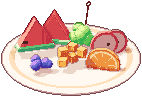
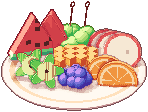
果盘挤满、前后遮挡；可颂一节一节叠成台阶
她：「果盘现在太空了，水果和水果之间没有接触，实际上可以按先后位置适当地用前一个水果遮挡后一个水果。」
「可颂是一层一层的……有点阶梯状的感觉。」附了参考图。

## 果盘

照参考的布局排满：后排西瓜（左）、葡萄（中，两根牙签）、苹果片（右，三片扇形一片压一片）；
中间芒果粒；前排杨桃（左，两片星形）、蓝莓（中，一堆）、橙子片（右，两片半圆一前一后）。
每样放大、挨着放，中心点前后错开大半个身位，前排自然盖住后排下半截。
杨桃是自写的星形棱柱 SDF（星形在本地 xz 平面、厚度沿 y，`aim` 把 y 转到朝向）。

## 可颂

前两版：一串一样大的椭球 →「像几个圆球」；一整条光滑管子加画上去的折痕 → 没有台阶。
这版九节，每节是**横着扁的一个卷**（沿弧薄、横过弧宽、高度小于宽度——竖着高的话像手指），
从中间往两头一级比一级小、比一级低，间距只有节宽一半、大的压在小的上面；每节单独一组，
节间那道深线才描得出来。弧心在前面，两头的尖朝观察者弯，斜俯视下看得出是个 C。

diff --git a/scripts/px_tabletop.py b/scripts/px_tabletop.py
@@ -509,55 +509,50 @@ def cookies(s, R, T):
         s.decal(lambda p: (speckle(p, 6, 0.18, seed=20), chip), "cookie%d" % i)
 
 
-@item("croissant", "可颂", units=4.2, ty=0.9, h=1.0)
+@item("croissant", "可颂", units=4.2, ty=0.8, h=0.9)
 def croissant(s, R, T):
-    # 可颂：**一整条**弯成月牙、中间粗两头细的面团，身上一道一道斜着的折痕。
-    # 她：「不像可颂，更像几个圆球」——拿一串椭球拼，每节都是个球。
-    # 这版是一个自己写的 SDF：沿一段弧走的管子，半径从中间往两头收，两头的尖往上翘一点；
-    # 折痕是按「在弧上走到哪儿」画的一圈圈暗线，所以线是绕着面团走的，不是贴在表面的斜条。
+    # 可颂是**一节一节叠起来的**：中间那节最大最高，往两头一节比一节小、一节比一节低，
+    # 边缘一级一级往下走（她说的「阶梯状」），节和节之间一道深线。
+    #
+    # 前两版都不对：
+    #   · 一串椭球 → 「像几个圆球」：每节是个球，而且一样大
+    #   · 一整条光滑的管子 + 画上去的折痕 → 没有台阶，轮廓是一条顺滑的弧
+    # 这版每一节是一个**横着裹在面团上的卷**（沿弧的方向薄、横过弧的方向宽），
+    # 节与节压得很紧（间距只有节宽的一半），大的压在小的上面，单独一组才描得出节间那道线。
     plate(s, color="#EEF2F6")
-    dough = M("dough", "#EDAA55", steps=7, gloss=0.4)
-    crease = M("crease", "#B86A2E", steps=4)
-    light = M("layer", "#F8D08A", steps=5)
-    RAD, SPAN = 1.55, math.radians(78)
-    C = -T * 0.95                             # 弧心在后面：中间离观察者最近，两头往后弯
-
-    def local_arc(p):
-        q = p - np.array([C[0], 0, C[2]])
-        x = q[..., 0] * R[0] + q[..., 2] * R[2]
-        z = q[..., 0] * T[0] + q[..., 2] * T[2]
-        th = np.arctan2(x, z)                 # 0 = 正对观察者
-        thc = np.clip(th, -SPAN, SPAN)
-        k = thc / SPAN
-        rr = 0.14 + 0.52 * np.cos(k * math.pi / 2) ** 0.75
-        yc = 0.66 + 0.08 * k ** 2             # 两头只翘一点点（翘高了像马蹄铁）
-        qx = np.sin(thc) * RAD
-        qz = np.cos(thc) * RAD
-        d = np.sqrt((x - qx) ** 2 + (z - qz) ** 2 + ((p[..., 1] - yc) * 1.15) ** 2) - rr
-        return d, k
-
-    from pixelkit import Shape
-    s.add(Shape(lambda p: local_arc(p)[0] * 0.8, 3.0), dough, "croissant")
-
-    def creases(p):
-        d, k = local_arc(p)
-        band = (k * 3.0 + p[..., 1] * 0.9) % 1
-        return (band < 0.08) & (np.abs(k) < 0.95), crease
-
-    def layers(p):
-        d, k = local_arc(p)
-        band = (k * 3.0 + p[..., 1] * 0.9) % 1
-        return (band > 0.13) & (band < 0.26) & (p[..., 1] > 0.8), light
-    s.decal(layers, "croissant")
-    s.decal(creases, "croissant")
+    doughs = [M("d0", "#F0B25E", steps=7, gloss=0.45), M("d1", "#E9A452", steps=7, gloss=0.45)]
+    shine_m = M("shine", "#FBD592", steps=4)
+    RAD = 1.25
+    # 弧心在前面：中间那节在后、两头的尖朝观察者弯过来，斜俯视下看得出是个「C」
+    C = T * 1.05
+    levels = [1.0, 0.82, 0.64, 0.47, 0.32]
+    order = [0, -1, 1, -2, 2, -3, 3, -4, 4]
+    for j in order:
+        lv = levels[abs(j)]
+        ang = math.radians(j * 19)
+        d = C + R * math.sin(ang) * RAD - T * math.cos(ang) * RAD
+        tang = R * math.cos(ang) + T * math.sin(ang)
+        # ⚠ 每节**横着扁**：宽 > 高。竖着高的话一节一节像手指（上一版就是）
+        a = 0.3 * lv + 0.07           # 沿弧：薄
+        b = 0.66 * lv + 0.1           # 横过弧：宽
+        c = 0.36 * lv + 0.06          # 高
+        g = "roll%d" % (j + 4)
+        s.add(along(ellipsoid(a, c, b), tang).at(d[0], 0.2 + c * 0.85, d[2]), doughs[abs(j) % 2], g)
+        s.decal((lambda p: ((p[..., 1] > 0.35 * c) & (np.abs(p[..., 2]) < 0.45 * b) & (np.abs(p[..., 0]) < 0.4 * a),
+                            shine_m)), g)
 
 
-@item("fruitbowl", "果盘", units=4.8, ty=0.75, h=0.95)
+@item("fruitbowl", "果盘", units=4.6, ty=0.8, h=0.95)
 def fruitbowl(s, R, T):
-    # 切好的水果拼盘（照她给的参考）：西瓜、葡萄、苹果片、橙子片、蓝莓、芒果粒，一样一堆摆满。
-    # 她：「不像果盘」——以前是一只碗装一个苹果一个橙子一根香蕉。
+    # 切好的水果拼盘，**挤满整个盘子**，按前后排：前面的压住后面的一截。
+    # 她：「太空了，水果和水果之间没有接触，可以按先后位置适当地用前一个水果遮挡后一个水果。」
+    # 照参考图的布局：
+    #   后排  西瓜（左）  葡萄（中）  苹果片（右）
+    #   中间  芒果粒（中）
+    #   前排  杨桃（左）  蓝莓（中）  橙子片（右）
+    # 每样都放大、挨着放，中心点前后错开大半个身位，前排自然盖住后排的下半截。
     plate(s, r=2.2, color="#FBF4EA", rim="#E7B98A")
-    melon = M("melon", "#F0605A", steps=5)
+    melon = M("melon", "#F0605A", steps=6)
     rind = M("rind", "#5FAE63", steps=4)
     rindw = M("rindw", "#EAF4D0", steps=3)
     seed_m = M("seed", "#3A2A26", steps=2)
@@ -567,54 +562,85 @@ def fruitbowl(s, R, T):
     orange = M("orange", "#F7A33A", steps=5)
     orpith = M("pith", "#FFE7B8", steps=3)
     blue = M("blue", "#4F5FB8", steps=5, gloss=0.7)
+    bluecrown = M("bluecrown", "#2F3A7A", steps=2)
     mango = M("mango", "#FFC54A", steps=5)
+    star = M("star", "#B9DB6A", steps=5)
+    starin = M("starin", "#E9F2B8", steps=3)
     pick = M("pick", "#C9A06A", steps=3)
+    from pixelkit import Shape
 
     def P(r, t, y):
         return R * r + T * t + np.array([0, y, 0])
 
-    # 西瓜：两块三角，立着，底下一条绿皮
-    for i, (r, t, yaw) in enumerate(((-1.15, -0.35, 15), (-0.55, -0.75, -10))):
-        c = P(r, t, 0.72)
-        shp = tri_prism(0.62, 0.16, round=0.05).rot("y", math.degrees(math.atan2(T[0], T[2])) + yaw).at(*c)
-        s.add(shp, melon, "melon%d" % i)
-        s.decal((lambda p: (p[..., 1] < -0.28, rind)), "melon%d" % i)
-        s.decal((lambda p: ((p[..., 1] >= -0.28) & (p[..., 1] < -0.2), rindw)), "melon%d" % i)
-        s.decal((lambda p: (speckle(p, 7, 0.08, seed=40 + i) & (p[..., 1] > -0.1) & (np.abs(p[..., 2]) > 0.12), seed_m)),
-                "melon%d" % i)
-    # 葡萄：一串绿的，插一根牙签
-    for k in range(10):
-        a = k * 2.4
-        rr = 0.18 + 0.05 * (k % 3)
-        c = P(0.35 + 0.28 * math.cos(a) * (k / 10), -0.75 + 0.22 * math.sin(a) * (k / 10), 0.45 + 0.1 * (k % 4))
-        s.add(sphere(0.2).at(*c), grape, "grape")
-    s.add(capsule(P(0.45, -0.8, 0.8), P(0.55, -0.95, 1.5), 0.025), pick, "pick")
-    s.add(torus(0.08, 0.02, axis="z").at(*P(0.56, -0.96, 1.6)), pick, "pick")
-    # 苹果片：两片立着的弯月，红皮白肉
-    for i, r in enumerate((1.05, 1.35)):
-        c = P(r, -0.35 - 0.12 * i, 0.5)
-        shp = aim(cylinder(0.45, 0.1), T + R * 0.3).at(*c)
-        s.add(shp, applein, "apple%d" % i)
-        s.decal((lambda p: (np.hypot(p[..., 0], p[..., 2]) > 0.37, appleskin)), "apple%d" % i)
-        s.decal((lambda p: ((np.hypot(p[..., 0] - 0.12, p[..., 2]) < 0.05), seed_m)), "apple%d" % i)
-    # 橙子片：半圆立着，一瓣一瓣
-    c = P(1.05, 0.55, 0.3)
-    s.add(aim(cylinder(0.55, 0.12), T - R * 0.25).at(*c), orange, "orange")
+    # ── 后排 ────────────────────────────
+    # 西瓜：两大块三角立着，一前一后错开
+    for i, (r, t, yaw) in enumerate(((-1.25, -0.75, 18), (-0.7, -0.95, -8))):
+        g = "melon%d" % i
+        shp = tri_prism(0.78, 0.2, round=0.05).rot("y", math.degrees(math.atan2(T[0], T[2])) + yaw).at(*P(r, t, 0.82))
+        s.add(shp, melon, g)
+        s.decal((lambda p: (p[..., 1] < -0.36, rind)), g)
+        s.decal((lambda p: ((p[..., 1] >= -0.36) & (p[..., 1] < -0.26), rindw)), g)
+        s.decal((lambda i: (lambda p: (speckle(p, 7, 0.1, seed=40 + i) & (p[..., 1] > -0.15) & (np.abs(p[..., 2]) > 0.15),
+                                       seed_m)))(i), g)
+    # 葡萄：一串绿的挤成一团，插两根牙签
+    rng = np.random.default_rng(5)
+    for k in range(16):
+        r = 0.05 + rng.uniform(-0.5, 0.5)
+        t = -1.0 + rng.uniform(-0.3, 0.3)
+        y = 0.4 + 0.22 * (k % 3) + rng.uniform(0, 0.1)
+        s.add(sphere(0.25).at(*P(r, t, y)), grape, "grape")
+    for r in (-0.15, 0.3):
+        s.add(capsule(P(r, -1.05, 0.9), P(r + 0.1, -1.15, 1.75), 0.025), pick, "pick")
+        s.add(torus(0.08, 0.02, axis="z").at(*P(r + 0.11, -1.16, 1.85)), pick, "pick")
+    # 苹果片：三片扇形排开，一片压一片
+    for i in range(3):
+        g = "apple%d" % i
+        c = P(0.95 + 0.28 * i, -0.8 + 0.12 * i, 0.55)
+        shp = aim(cylinder(0.58, 0.13), T * 1.0 + R * (0.25 - 0.2 * i) + np.array([0, 0.35, 0])).at(*c)
+        s.add(shp, applein, g)
+        s.decal((lambda p: (np.hypot(p[..., 0], p[..., 2]) > 0.49, appleskin)), g)
+        s.decal((lambda p: ((np.hypot(p[..., 0] - 0.15, p[..., 2]) < 0.06) & (p[..., 1] > 0.06), seed_m)), g)
+    # ── 中间：芒果 ──────────────────────
+    for k in range(12):
+        rr, tt = (k % 4) - 1.5, (k // 4) - 1
+        s.add(box(0.15, 0.15, 0.15, round=0.035).at(*P(0.05 + rr * 0.32, -0.15 + tt * 0.3, 0.5 + 0.1 * (2 - abs(rr)))),
+              mango, "mango")
+    # ── 前排 ────────────────────────────
+    # 杨桃：两片星形，斜着立
+    def star_prism(ro, thick):
+        def f(q):
+            x, y, z = q[..., 0], q[..., 1], q[..., 2]
+            rho = np.hypot(x, z)
+            th = np.arctan2(z, x)
+            rs = ro * (0.52 + 0.48 * np.abs(np.cos(2.5 * th)) ** 2.2)
+            return np.maximum(rho - rs, np.abs(y) - thick) * 0.7
+        return Shape(f, ro)
 
-    def seg(p):
-        ang = np.arctan2(p[..., 2], p[..., 0])
-        rr = np.hypot(p[..., 0], p[..., 2])
-        return ((np.abs(((ang / (math.tau / 8)) % 1) - 0.5) > 0.44) & (rr < 0.45)) | ((rr > 0.42) & (rr < 0.48)), orpith
-    s.decal(seg, "orange")
-    # 芒果粒：一小堆方块
-    for k in range(7):
-        c = P(-0.25 + 0.3 * (k % 3), 0.2 + 0.28 * (k // 3), 0.45 + 0.22 * (k % 2))
-        s.add(box(0.13, 0.12, 0.13, round=0.03).rot("y", 20 * k).at(*c), mango, "mango")
-    # 蓝莓：一堆
-    for k in range(9):
-        a = k * 2.1
-        c = P(-1.0 + 0.3 * math.cos(a) * (0.4 + k / 12), 0.75 + 0.25 * math.sin(a) * (0.4 + k / 12), 0.38 + 0.05 * (k % 2))
-        s.add(sphere(0.14).at(*c), blue, "blue")
+    for i, (r, t) in enumerate(((-1.3, 0.35), (-0.85, 0.7))):
+        g = "star%d" % i
+        s.add(aim(star_prism(0.55, 0.1), T + R * (-0.2 + 0.3 * i) + np.array([0, 0.6, 0])).rot("y", 0).at(*P(r, t, 0.55)),
+              star, g)
+        s.decal((lambda p: ((np.hypot(p[..., 0], p[..., 2]) < 0.3) & (np.abs(p[..., 1]) > 0.05), starin)), g)
+        s.decal((lambda p: ((np.hypot(p[..., 0], p[..., 2]) < 0.06) & (np.abs(p[..., 1]) > 0.05), seed_m)), g)
+    # 蓝莓：一堆挤在前面正中
+    for k in range(13):
+        a = k * 2.4
+        rr = 0.12 * math.sqrt(k)
+        s.add(sphere(0.2).at(*P(0.05 + rr * math.cos(a), 0.75 + rr * math.sin(a) * 0.8, 0.36 + 0.18 * (k < 4))),
+              blue, "blue%d" % (k % 3))
+    for g in range(3):
+        s.decal((lambda p: ((np.hypot(p[..., 0], p[..., 2]) < 0.06) & (p[..., 1] > 0.15), bluecrown)), "blue%d" % g)
+    # 橙子片：两片半圆立着，一前一后
+    for i, (r, t) in enumerate(((1.0, 0.4), (1.35, 0.75))):
+        g = "orange%d" % i
+        s.add(aim(cylinder(0.62, 0.12), T - R * 0.2 + np.array([0, 0.15, 0])).at(*P(r, t, 0.28)), orange, g)
+
+        def seg(p):
+            ang = np.arctan2(p[..., 2], p[..., 0])
+            rr_ = np.hypot(p[..., 0], p[..., 2])
+            return (((np.abs(((ang / (math.tau / 8)) % 1) - 0.5) > 0.44) & (rr_ < 0.5))
+                    | ((rr_ > 0.47) & (rr_ < 0.54))) & (np.abs(p[..., 1] - 0.06) > 0.04), orpith
+        s.decal(seg, g)
 
 
 @item("pancakes", "松饼", units=4.6, ty=0.9, h=1.0)
